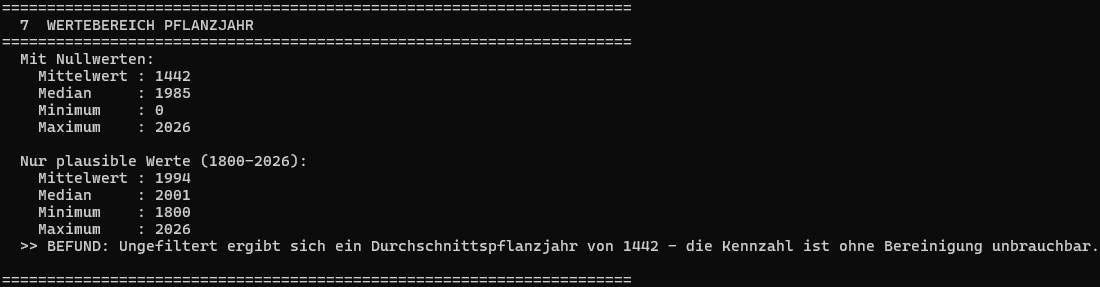
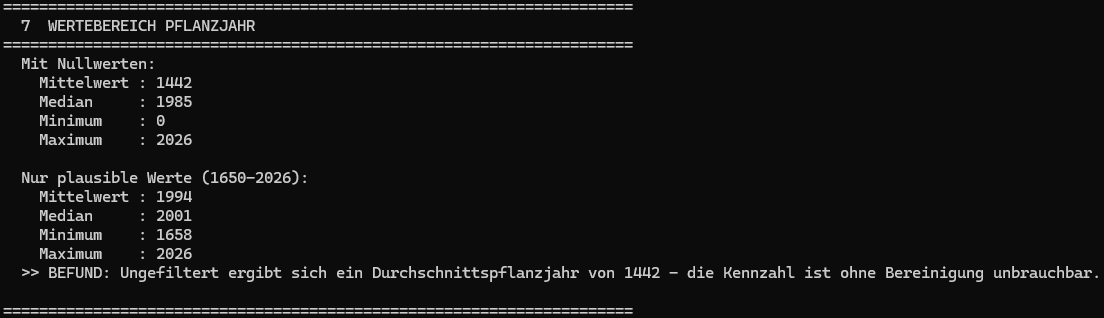
Profiling: neun Datenqualitaetsbefunde dokumentiert, Screenshots ergaenzt

diff --git a/src/01_einlesen.py b/src/01_einlesen.py
@@ -15,7 +15,7 @@ from pathlib import Path
 PFAD = Path(__file__).parent.parent / "data" / "raw" / "baumkataster.csv"
 
 # Wien liegt bei ca. 1-23 Bezirken; Pflanzjahre vor 1800 sind unplausibel
-JAHR_MIN, JAHR_MAX = 1800, 2026
+JAHR_MIN, JAHR_MAX = 1650, 2026
 
 
 def titel(text):
@@ -188,8 +188,6 @@ print(f"    {zeilen:,} Datensaetze, {spalten} Spalten geprueft".replace(",", "."
 print(f"    {pflanzjahr_null:,} verschleierte Nullwerte in PFLANZJAHR".replace(",", "."))
 print(f"    {stammumfang_null:,} verschleierte Nullwerte in STAMMUMFANG".replace(",", "."))
 print(f"    {int(leer.sum()):,} echte NULL-Werte insgesamt".replace(",", "."))
-print()
-print("    Naechster Schritt: Ableitung der Pruefregeln nach ISO/IEC 25012")
 print()
 
 print(df.loc[df["PFLANZJAHR"].between(1, 1799), "PFLANZJAHR"].value_counts())
